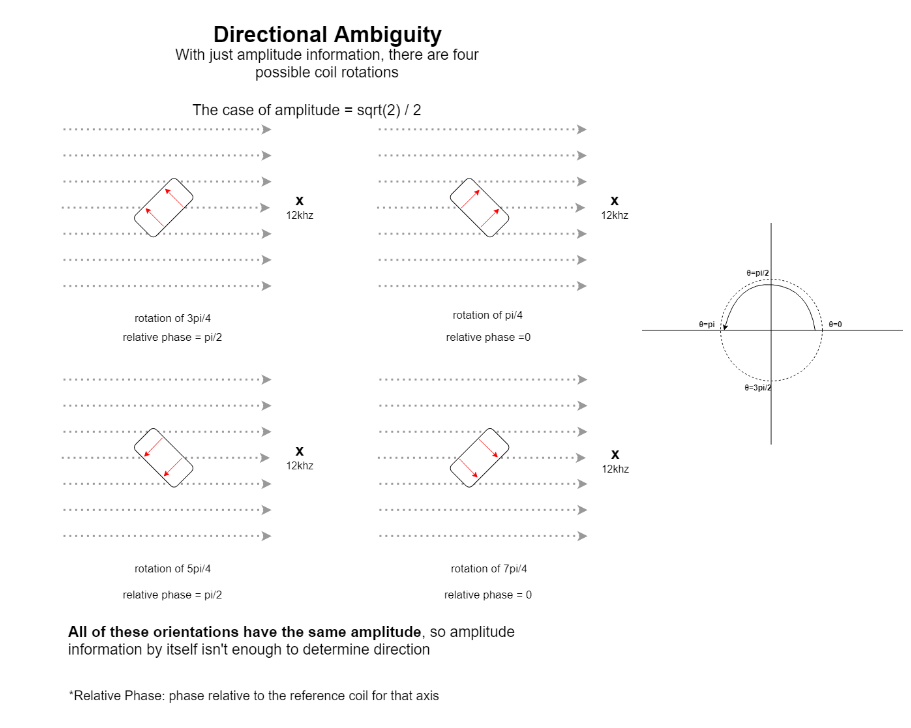
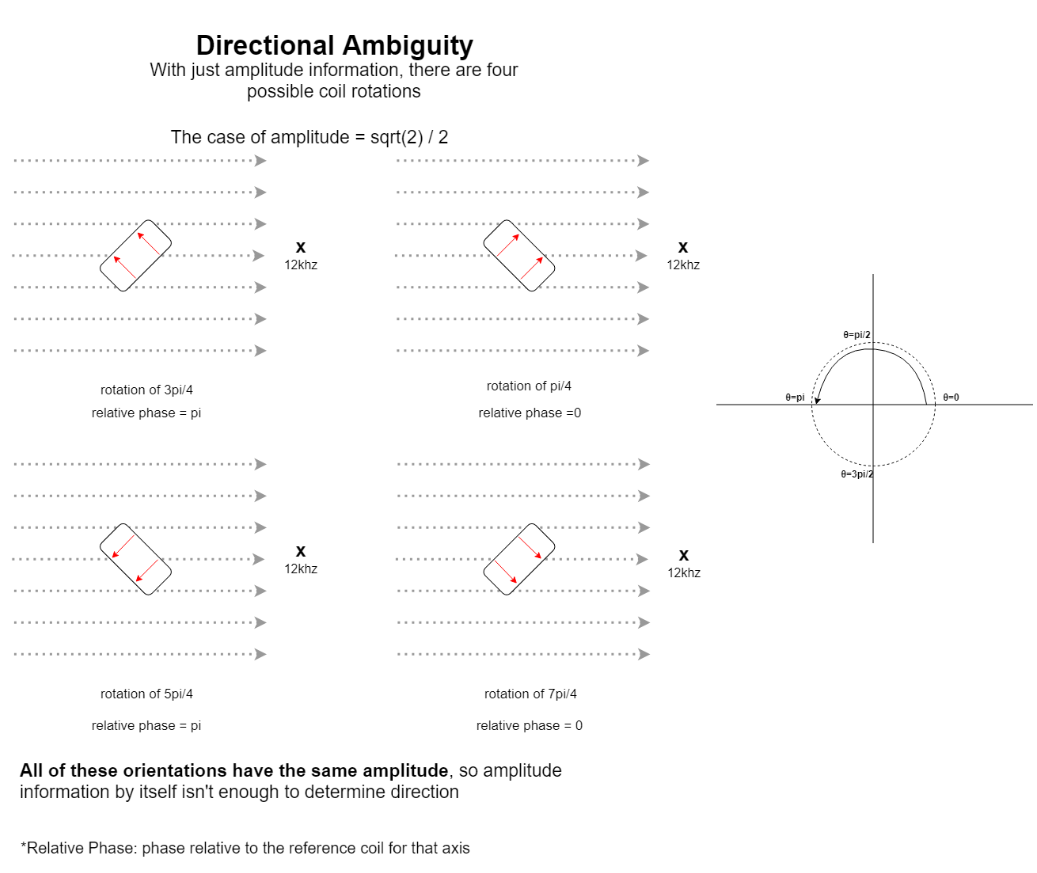
documentation updates

diff --git a/README.md b/README.md
@@ -46,7 +46,7 @@ a known parameter (and likely increased). see
 [how this affects data collection here](https://www.electronics-tutorials.ws/amplifier/input-impedance-of-an-amplifier.html)
 
 **These amplifiers are configured in Inverting Mode - they apply a predictable
-phase shift of pi/2**
+phase shift of pi**
 
 ##### DAQ
 (PCIE-6346)
@@ -142,23 +142,6 @@ orientations for any given amplitude. We need more information...
   - ground truth phase of the reference coil
 
 
-
-
-
-
-
-
-
-
-
-
-
-
-
-
-
-
-
 #### Step 3
 We can now use the amplitude information to reduce the problem to four possible
 orientations of the coil.
@@ -245,15 +228,15 @@ relative_phase_20k = coil_phase_20k - ref_phase_20k
 # I could very well have made a mistake in this section
 #
 # how to account for a theoretical situation in which the relative phase
-# is greater than pi/2? maybe mod by pi/2 or clip the array. This shouldn't happen, but might
-# happen as a result of measurment error or bad calibration
+# is greater than pi? maybe mod by pi or clip the array. This shouldn't happen, but might
+# happen as a result of measurement error or bad calibration
 # ------------------------------------------------------------------------------
 
-# all phase between 0 and pi/4 --> 0
-# all phase between pi/4 and pi/2 --> +1
+# all phase between 0 and pi/2 --> 0
+# all phase between pi/2 and pi --> +1
 
 # use integer division to binarize the signal between 0 and 1
-# zeros in this case mean that the measurment coil is parallel to the flux
+# zeros in this case mean that the measurement coil is parallel to the flux
 # everything in this array should be 0 or 1
 direction_12k = (relative_phase_12k // (np.pi/2))
 direction_16k =  (relative_phase_16k // (np.pi/2))
